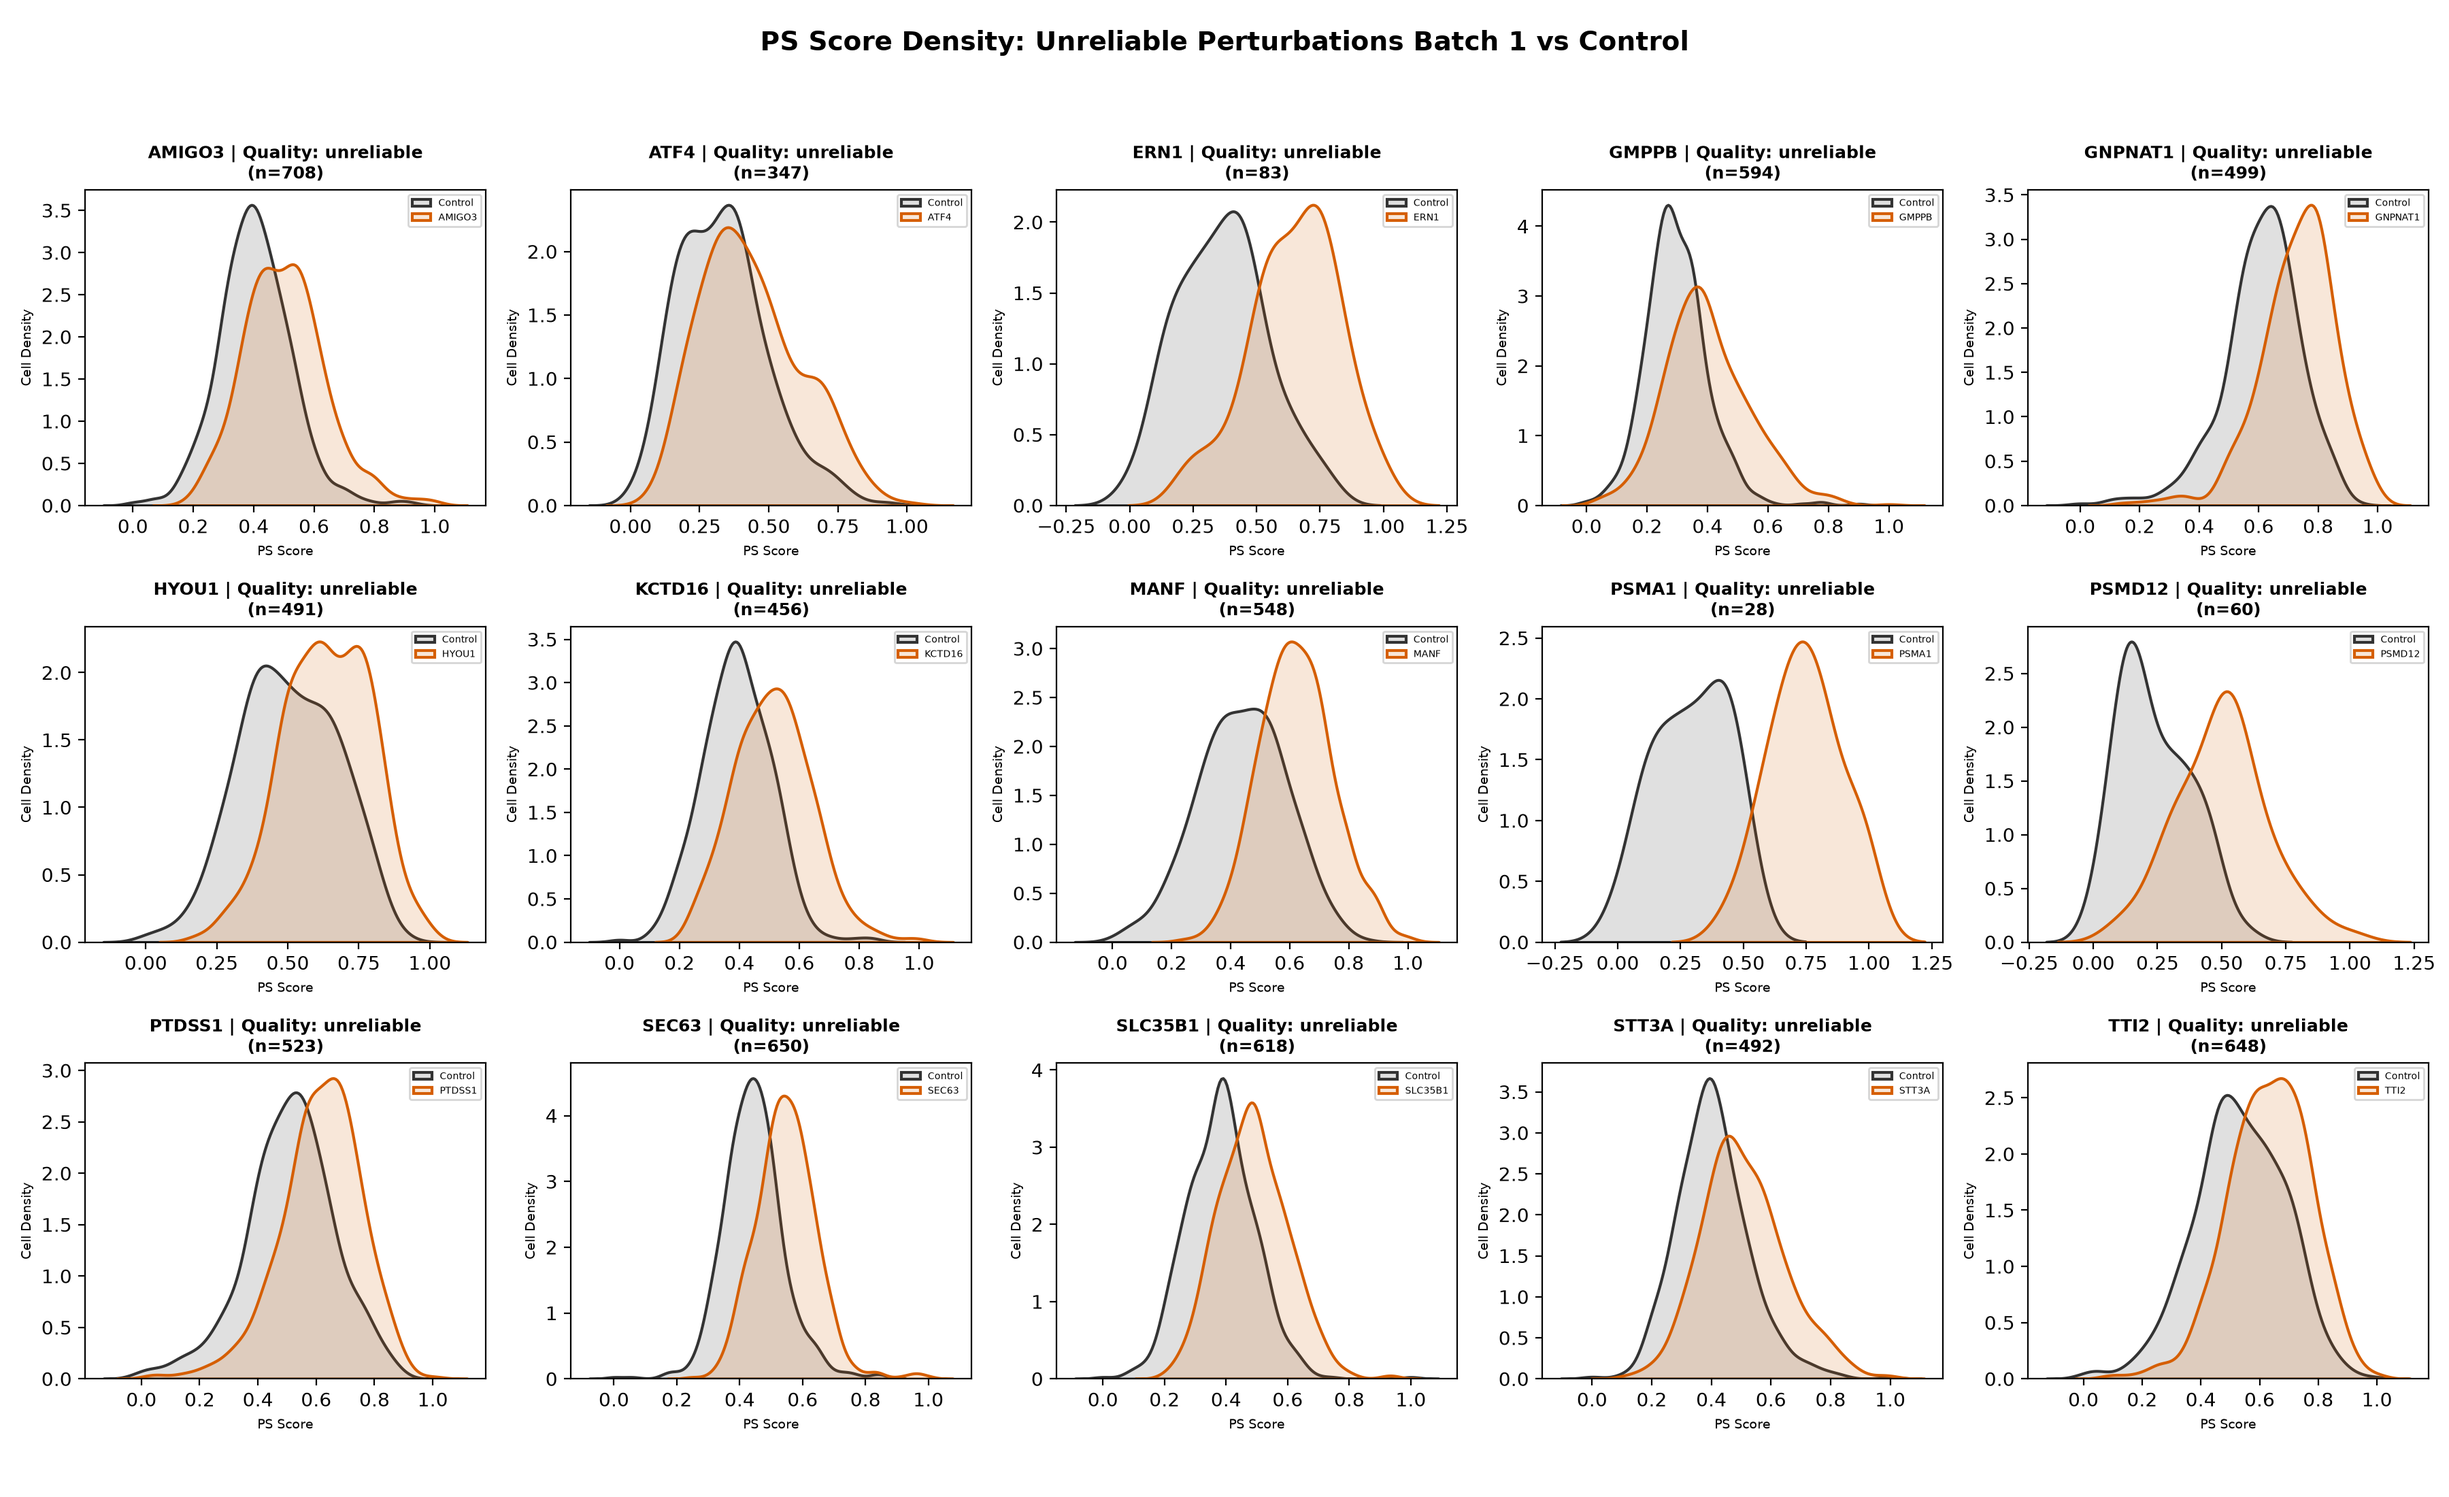
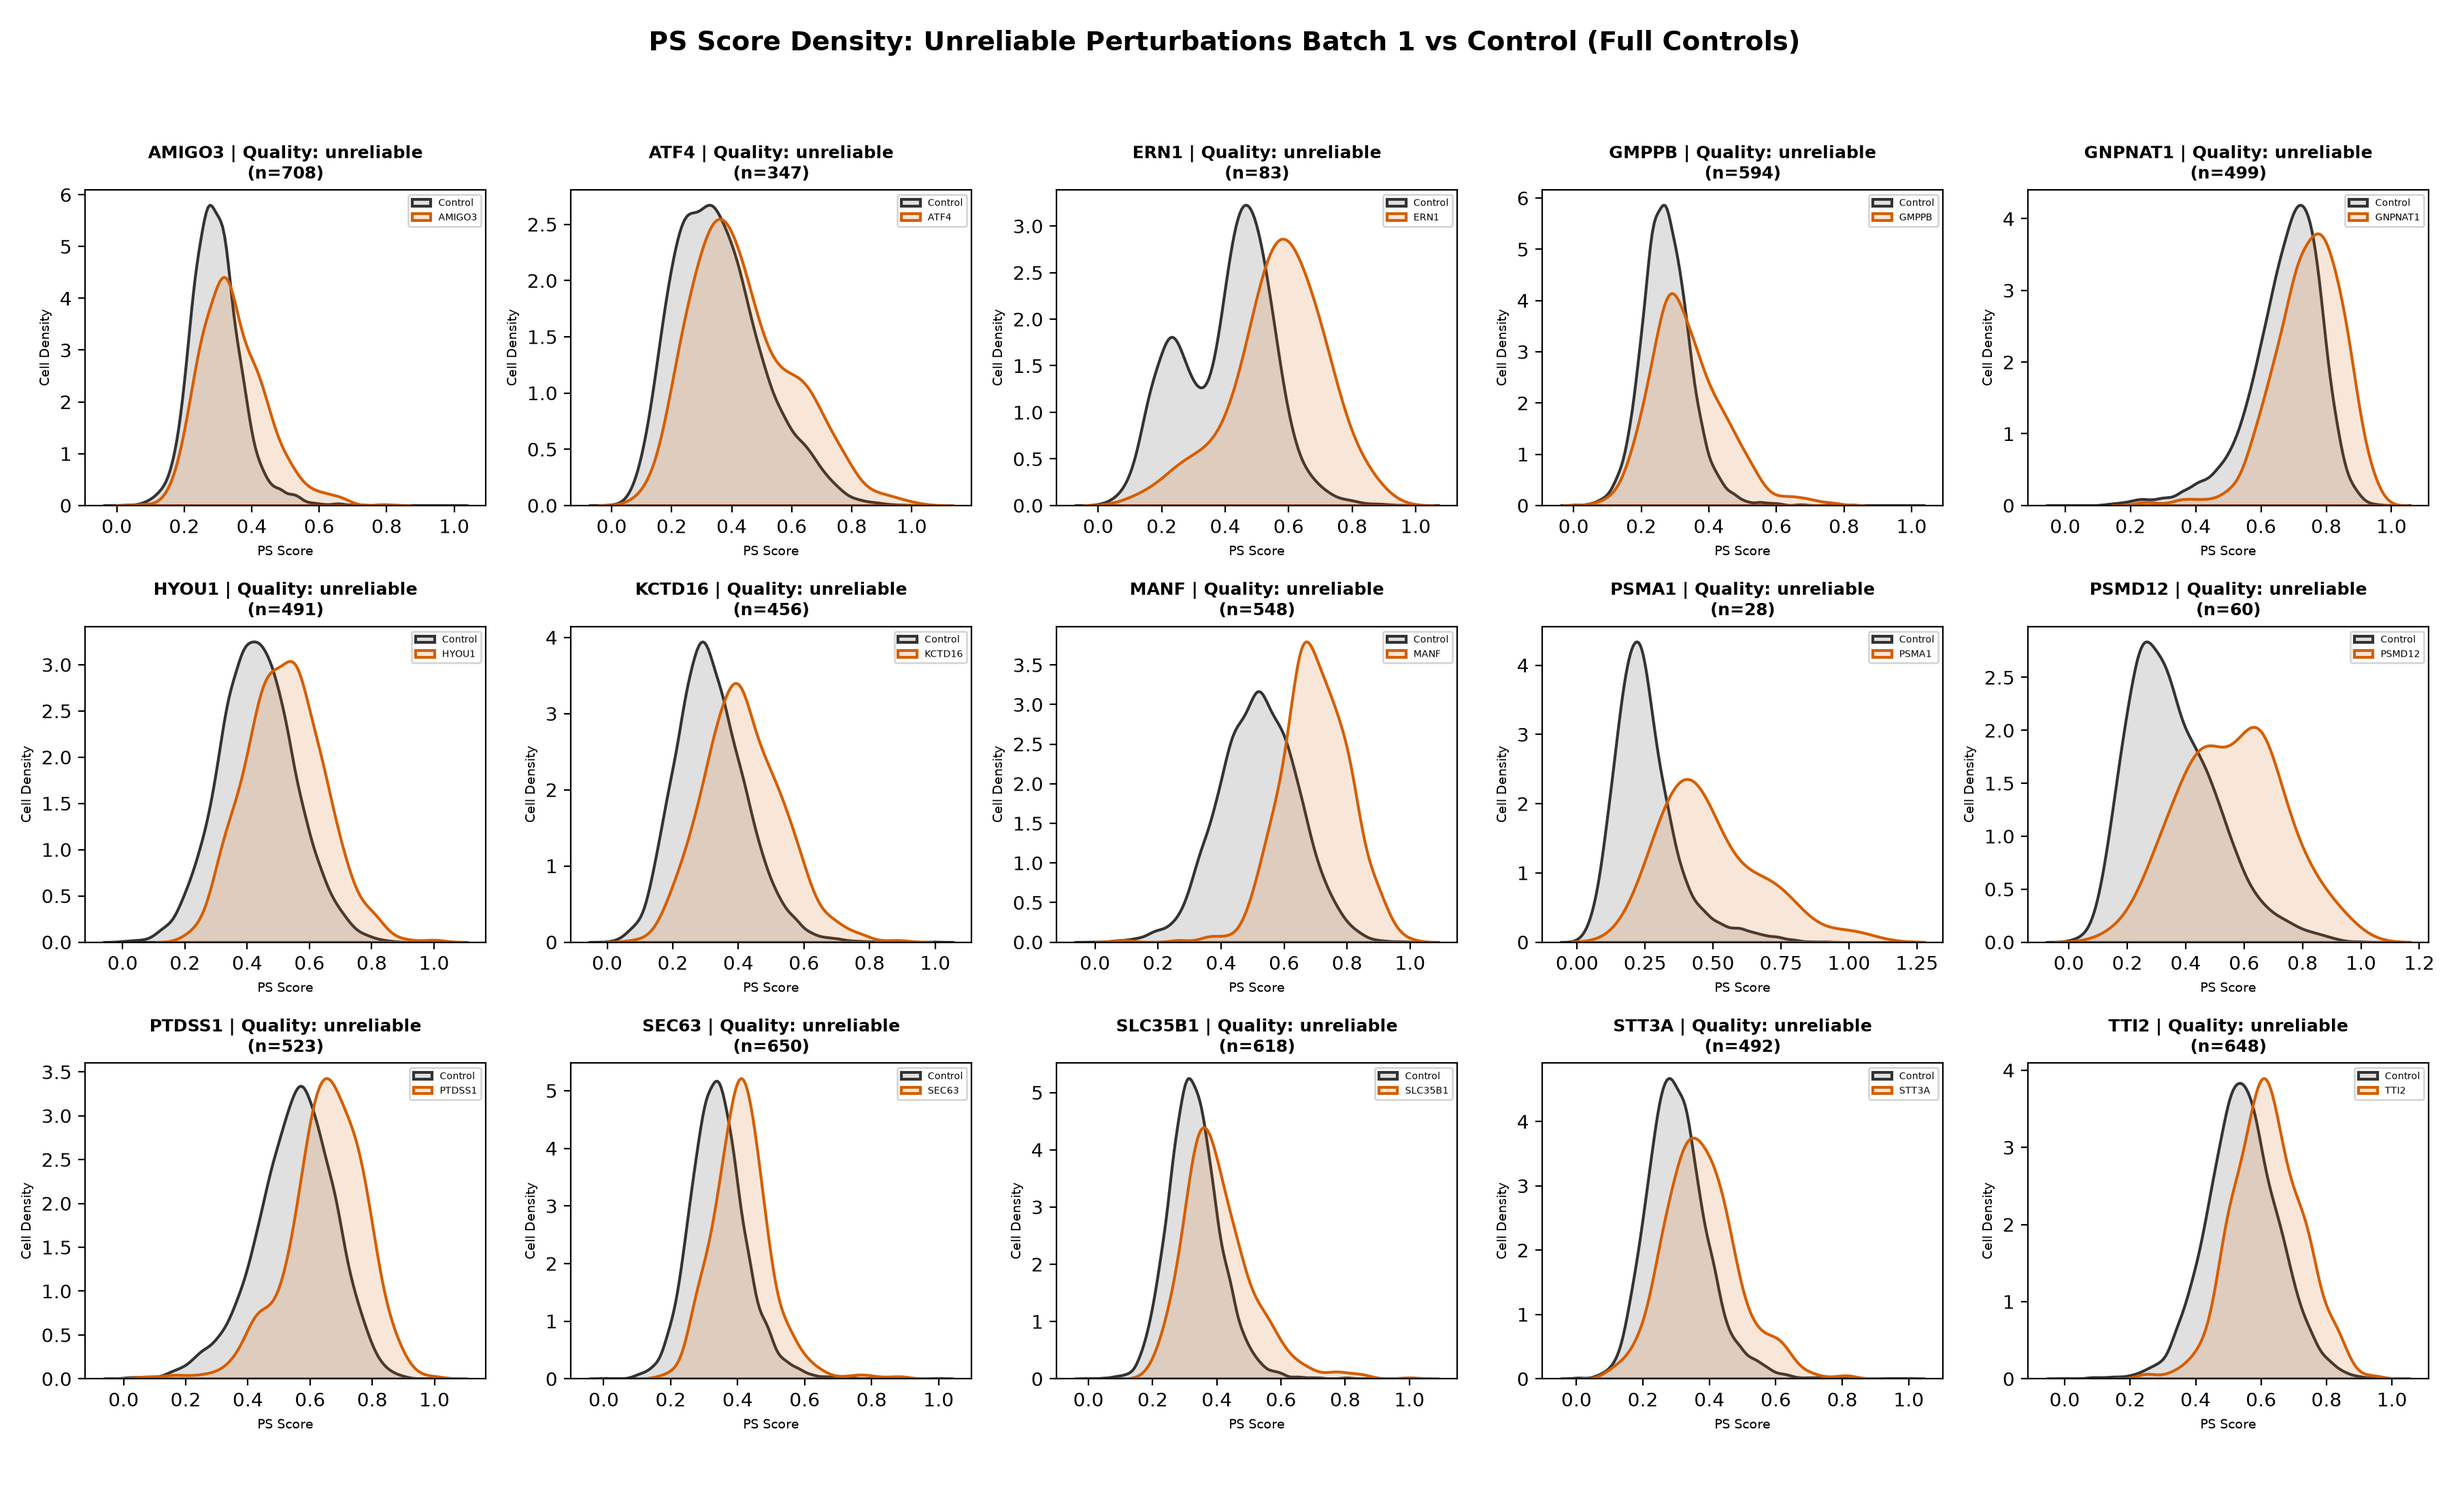
Remove subsampling from PC score, proper DE check (many+few DEs)

diff --git a/visualisations/adamson/ps-score/ps-score-unreliable.py b/visualisations/adamson/ps-score/ps-score-unreliable.py
@@ -7,14 +7,13 @@ import matplotlib.pyplot as plt
 import numpy as np
 import pandas as pd
 import seaborn as sns
-from scipy.stats import ks_2samp
+import scanpy as sc
 from sklearn.linear_model import Ridge
 
-print("Start Unreliable Perturbations PS Score Analysis")
+print("Start Unreliable Perturbations PS Score Analysis (No Downsampling)")
 
 DATASET = "adamson16"
 CONTROL_LABEL = "control"
-KS_THRESHOLD = 0.04
 BATCH_SIZE = 15  # 15 subplots per image (3 rows x 5 columns)
 
 SPLIT_CSV_URL = "reliability_adamson.csv"
@@ -39,7 +38,7 @@ except Exception as e:
     unreliable_perts = [
         "AMIGO3", "ATF4", "ERN1", "GMPPB", "GNPNAT1", "HYOU1", 
         "KCTD16", "MANF", "PSMA1", "PSMD12", "PTDSS1", "SEC63", 
-        "SLC35B1", "STT3A", "TTI2", "XBP1"
+        "SLC35B1", "STT3A", "TTI2" #, "XBP1" ignore the last one so that all first 15 fit on one plot
     ]
 
 # Keep only those present in the dataset
@@ -48,7 +47,7 @@ print(f"Found {len(available_perts)} unreliable perturbations in dataset: {avail
 
 ctrl_mask_full = (adata_full.obs["perturbation"] == CONTROL_LABEL).values
 ctrl_indices_full = np.where(ctrl_mask_full)[0]
-n_ctrl_total = len(ctrl_indices_full)
+print(f"Using all {len(ctrl_indices_full)} control cells across all perturbations.")
 
 # Process unreliable perturbations in batches of BATCH_SIZE (15)
 for batch_idx, i in enumerate(range(0, len(available_perts), BATCH_SIZE)):
@@ -70,32 +69,46 @@ for batch_idx, i in enumerate(range(0, len(available_perts), BATCH_SIZE)):
             ax.set_title(f"{target_pert} [unreliable]", fontsize=9, fontweight='bold', color='red')
             continue
 
-        # Downsample controls to match perturbation size for balanced estimation
+        # Use ALL control cells combined with this perturbation's cells (NO downsampling)
         pert_indices = np.where(pert_mask)[0]
-        np.random.seed(42)
-        sampled_ctrl_indices = np.random.choice(ctrl_indices_full, size=min(n_ctrl_total, n_pert), replace=False)
-
-        sub_indices = np.concatenate([pert_indices, sampled_ctrl_indices])
+        sub_indices = np.concatenate([pert_indices, ctrl_indices_full])
         adata_sub = adata_full[sub_indices].copy()
 
-        # Step 1: Identify top downstream DEGs for this perturbation via KS test
-        X_data = adata_sub.X.toarray() if hasattr(adata_sub.X, "toarray") else adata_sub.X
-        gene_names = adata_sub.var_names
         sub_pert_mask = (adata_sub.obs["perturbation"] == target_pert).values
         sub_ctrl_mask = (adata_sub.obs["perturbation"] == CONTROL_LABEL).values
 
-        ks_results = []
-        for g_idx, gene in enumerate(gene_names):
-            res = ks_2samp(X_data[sub_pert_mask, g_idx], X_data[sub_ctrl_mask, g_idx])
-            ks_results.append({'gene': gene, 'statistic_D': res.statistic})
-
-        de_df = pd.DataFrame(ks_results).sort_values(by='statistic_D', ascending=False)
-        target_genes = de_df.loc[de_df['statistic_D'] >= KS_THRESHOLD, 'gene'].head(50).values
+        # Step 1: Identify downstream DEGs using Wilcoxon rank-sum test
+        sc.tl.rank_genes_groups(
+            adata_sub, 
+            groupby="perturbation", 
+            groups=[target_pert], 
+            reference=CONTROL_LABEL, 
+            method="wilcoxon"
+        )
+        de_df = sc.get.rank_genes_groups_df(adata_sub, group=target_pert)
+        
+        # Order by p-values and filter by absolute log fold change > 0.1
+        de_df = de_df.sort_values(by="pvals", ascending=True)
+        filtered_de = de_df[ (de_df["logfoldchanges"].abs() > 0.1)]
+        # If fewer than 10 pass, fall back to the top 10 ranked genes
+        if len(filtered_de) < 10:
+            filtered_de = de_df.head(min(10, len(de_df)))
+        print(f"Perturbation {target_pert}: {len(filtered_de)} DEGs found after filtering")
+        
+        target_genes = filtered_de["names"].head(50).values
         if len(target_genes) < 5:
-            target_genes = de_df['gene'].head(20).values
+            target_genes = de_df["names"].head(20).values
 
         # Step 2: Compute PS Score via Ridge Regression beta weights
-        Y = X_data[:, [np.where(gene_names == g)[0][0] for g in target_genes]]
+        X_data = adata_sub.X.toarray() if hasattr(adata_sub.X, "toarray") else adata_sub.X
+        gene_names = adata_sub.var_names
+
+        valid_target_genes = [g for g in target_genes if g in gene_names]
+        if len(valid_target_genes) == 0:
+            valid_target_genes = gene_names[:20]
+
+        gene_indices = [np.where(gene_names == g)[0][0] for g in valid_target_genes]
+        Y = X_data[:, gene_indices]
         D = sub_pert_mask.astype(int).reshape(-1, 1)
 
         ridge = Ridge(alpha=0.01)
@@ -129,7 +142,7 @@ for batch_idx, i in enumerate(range(0, len(available_perts), BATCH_SIZE)):
         sns.kdeplot(
             pert_vals,
             ax=ax,
-            color="#D55E00",  # Vermillion for unreliable / alternate category
+            color="#D55E00",  # Vermillion for unreliable
             label=target_pert,
             fill=True,
             alpha=0.15,
@@ -145,7 +158,7 @@ for batch_idx, i in enumerate(range(0, len(available_perts), BATCH_SIZE)):
     for idx in range(len(batch_perts), len(axes)):
         fig.delaxes(axes[idx])
 
-    fig.suptitle(f"PS Score Density: Unreliable Perturbations Batch {batch_idx + 1} vs Control", fontsize=14, fontweight='bold')
+    fig.suptitle(f"PS Score Density: Unreliable Perturbations Batch {batch_idx + 1} vs Control (Full Controls)", fontsize=14, fontweight='bold')
     fig.tight_layout(rect=[0, 0.03, 1, 0.95])
 
     out_path = OUT_DIR / f"ps_score_unreliable_batch_{batch_idx + 1}_{DATASET}.png"
